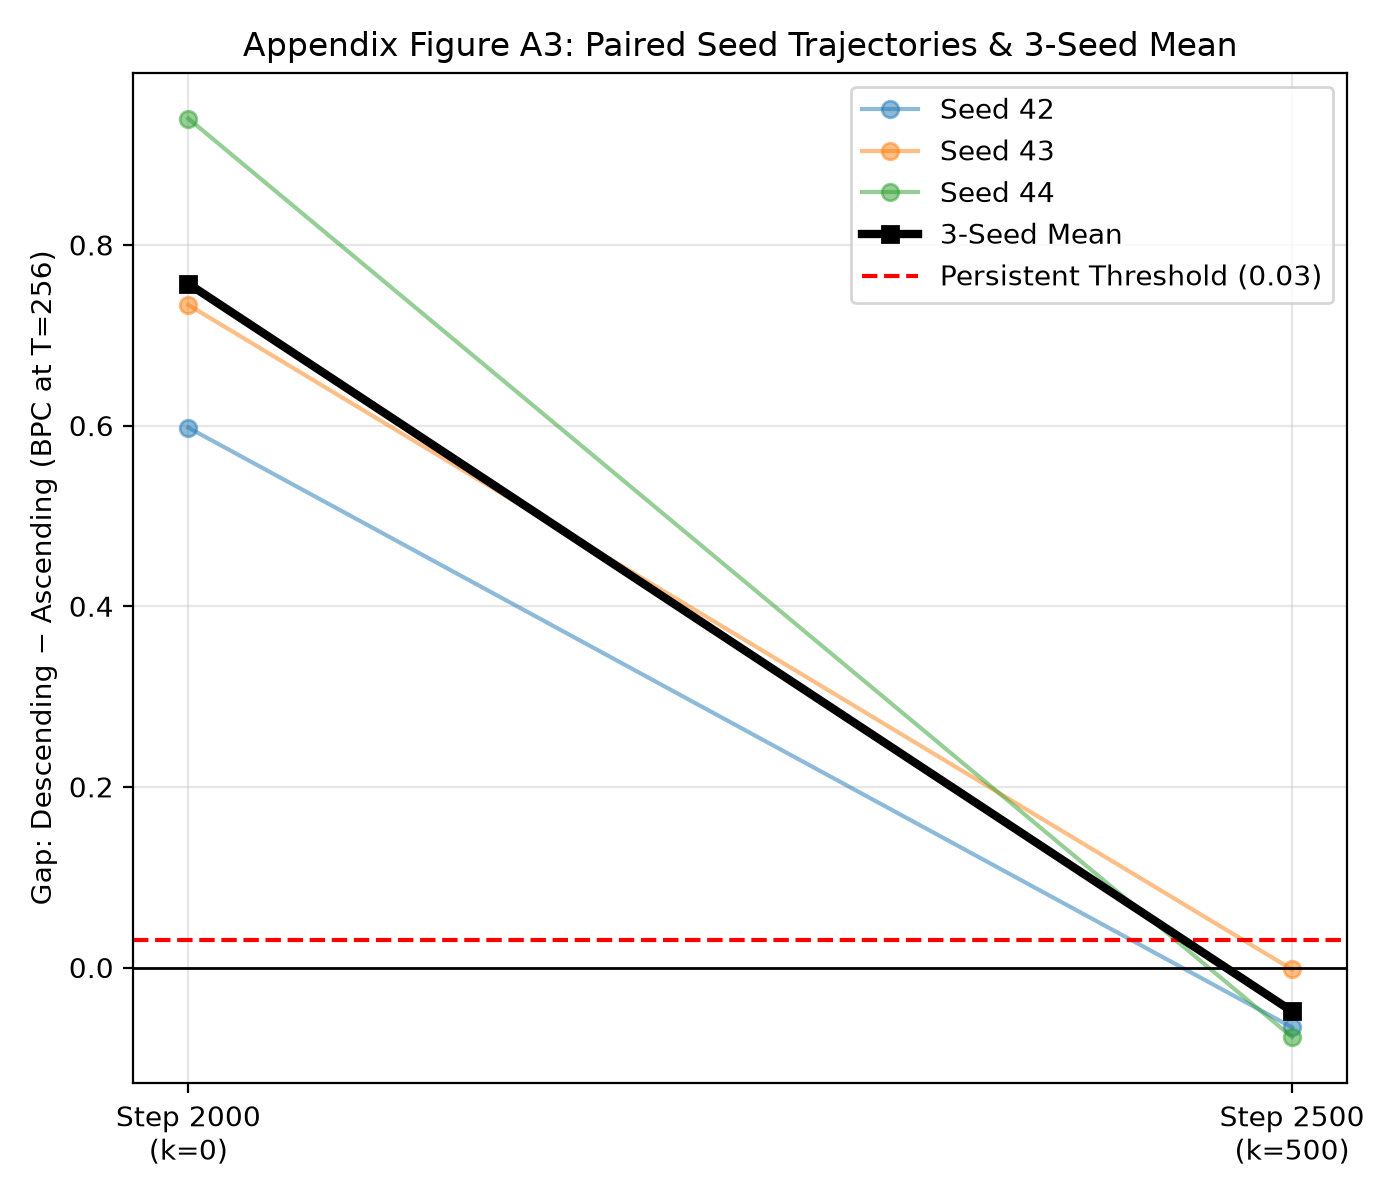
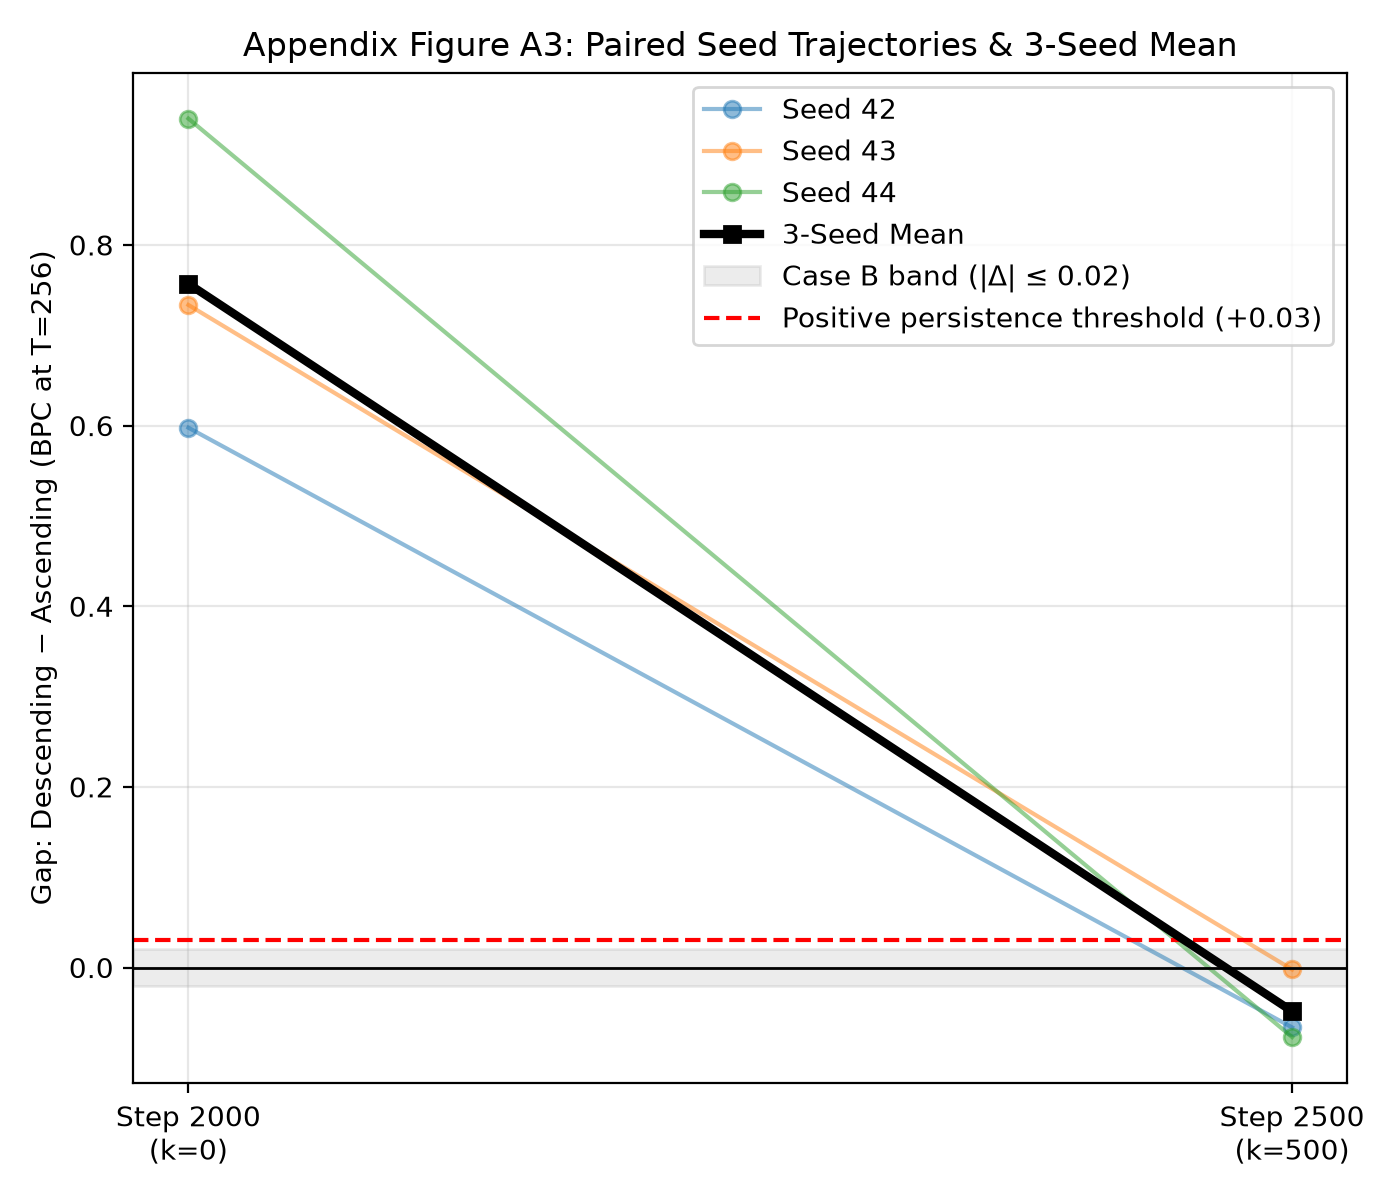
docs(recovery_study): publish corrected results and report

Changed region(s): [[0.4914, 0.0617, 0.9521, 0.2775]]

diff --git a/training_dynamics_research/recovery_study/TECHNICAL_REPORT.md b/training_dynamics_research/recovery_study/TECHNICAL_REPORT.md
@@ -1,0 +1,169 @@
+# Context-Length Order Recovery Study
+
+## Technical report
+
+> **Status:** Complete 3-arm × 3-seed controlled study; preregistered endpoint is unresolved  
+> **Experiment date:** September 27, 2026  
+> **Model:** 4.8M-parameter character-level Transformer on Tiny Shakespeare  
+> **Primary metric:** Paired descending-minus-ascending validation BPC at evaluation horizon `T=256`
+
+## Abstract
+
+We tested whether the large long-context deficit previously observed after descending context-length training reflects persistent path dependence or a reversible terminal-context effect. Three schedules—ascending (`32→64→128→256`), descending (`256→128→64→32`), and one prespecified nonmonotonic permutation (`64→256→32→128`)—received matched context exposure for 2,000 steps, followed by 500 identical `T=256` recovery steps. Data draws, initialization within seed, model, optimizer, token throughput, evaluation targets, recovery learning rate, and training budget were controlled.
+
+Before recovery, the paired descending-minus-ascending anchor gap at `T=256` was `+0.7570 BPC` (95% t interval `[+0.3290, +1.1851]`; 3/3 seeds positive). After recovery, it was `−0.0485 BPC` (95% t interval `[−0.1491, +0.0521]`; 0/3 positive). The registered recovery ratio was `R=−0.064`, but the absolute residual `0.0485 BPC` exceeded the preregistered Case B threshold of `0.02 BPC`. The correct registered outcome is therefore: **large deficit reversed; residual sign reversal unresolved**. The original positive deficit did not persist, but three seeds cannot establish whether the small reversed residual is real or explain its mechanism.
+
+## 1. Research question
+
+After matching context exposure, transition structure, training budget, validation targets, and a final long-context recovery stage, does the temporal order of context-length blocks leave a persistent effect on language-model performance?
+
+The primary contrast was
+
+\[
+\Delta^A(k)=\operatorname{BPC}^{A}_{descending,256}(2000+k)
+-\operatorname{BPC}^{A}_{ascending,256}(2000+k),
+\]
+
+measured on the 32-sequence anchor panel at recovery steps `k=0` and `k=500`.
+
+## 2. Hypotheses and decision rules
+
+The quantitative hypothesis was that common `T=256` recovery would remove at least 75% of the pre-recovery gap:
+
+\[
+R=\frac{\Delta^A(500)}{\Delta^A(0)}<0.25.
+\]
+
+The ratio was descriptive and could not override the absolute residual rules:
+
+- Case A: `|mean Δᴬ(0)| < 0.02 BPC` — the original gap did not replicate.
+- Case B: `|mean Δᴬ(500)| ≤ 0.02 BPC` — practically removed.
+- Case C: a small, directionally inconsistent, or boundary residual — unresolved.
+- Case D: a positive residual above `0.03 BPC` that was still recovering — extend once.
+- Case E: a positive residual above `0.03 BPC`, 3/3 positive, and plateaued — persistent-effect candidate.
+
+The observed large negative residual was not a preregistered Case B outcome. It is reported as a Case C boundary/sign-reversal result rather than redefining Case B after observing the data.
+
+## 3. Controlled experimental design
+
+| Component | Frozen design |
+|---|---|
+| Arms | ascending, descending, one exploratory nonmonotonic permutation |
+| Seeds | 42, 43, 44 |
+| Scheduled phase | four 500-step context blocks, steps 1–2000 |
+| Recovery phase | common `T=256`, steps 2001–2500 |
+| Token throughput | `B×T=4096` tokens per update |
+| Optimizer | AdamW with preserved state |
+| Recovery learning rate | common schedule ending at `min_lr=1e-4` |
+| Process panel | 16 fixed sequences, four horizons, 17 checkpoints |
+| Anchor panel | 32 fixed sequences, four horizons, steps 2000 and 2500 |
+| Pairing | identical initialization and matched data manifests within seed |
+| Execution-order control | Latin-square arm rotation across seeds |
+
+The nonmonotonic arm is exploratory. One permutation cannot support claims about nonmonotonic schedules as a class and does not alter the primary descending-versus-ascending decision.
+
+## 4. Validity and completeness checks
+
+The formal analysis gate verified:
+
+- all 9 runs were present, completed, and not smoke tests;
+- all runs reached step 2500;
+- every run contained all 17 process checkpoints and all four evaluation horizons;
+- every run contained anchor evaluations at steps 2000 and 2500;
+- the process panel contained 16 sequence-level BPC values and the anchor panel contained 32;
+- the first 16 anchor sequences reconstructed the corresponding process statistic;
+- all evaluated values were finite.
+
+The aggregate recorded training time was 8,818.7 seconds (approximately 2.45 hours summed across the nine sequential run records). No training rerun or adaptive extension was triggered by the corrected analysis.
+
+## 5. Primary result
+
+| Endpoint | Seed-level paired differences | Mean ± SD BPC | 95% t interval | Direction |
+|---|---|---:|---:|---:|
+| `Δᴬ(0)`, step 2000 | `+0.5977, +0.7336, +0.9399` | `+0.7570 ± 0.1723` | `[+0.3290, +1.1851]` | 3/3 positive |
+| `Δᴬ(500)`, step 2500 | `−0.0663, −0.0022, −0.0770` | `−0.0485 ± 0.0405` | `[−0.1491, +0.0521]` | 0/3 positive |
+| Pre-to-post reduction | `+0.6640, +0.7357, +1.0169` | `+0.8055 ± 0.1865` | `[+0.3422, +1.2689]` | 3/3 positive |
+
+`R=−0.064`, corresponding descriptively to 106.4% recovery because the gap crossed zero. This ratio supports strong recovery but does not establish equivalence. Since `|−0.0485|=0.0485>0.02`, the registered Case B practical-removal criterion was not met.
+
+## 6. Multi-horizon and process evidence
+
+### 6.1 Anchor endpoints
+
+Mean descending-minus-ascending anchor differences were:
+
+| Evaluation horizon | Step 2000 | Step 2500 |
+|---:|---:|---:|
+| `T=32` | `−0.0667` | `−0.0622` |
+| `T=64` | `−0.0424` | `−0.0569` |
+| `T=128` | `−0.0258` | `−0.0606` |
+| `T=256` | `+0.7570` | `−0.0485` |
+
+The large pre-recovery deficit was specific to evaluation at `T=256`; it was not a broad degradation shared by shorter evaluation horizons. After common recovery, all four mean contrasts were modest and negative, although their three-seed intervals were wide and crossed zero.
+
+### 6.2 Recovery dynamics
+
+On the 16-sequence process panel, the mean `T=256` gap fell from `+0.8097 BPC` at `k=0` to `+0.0719` at `k=10`, crossed zero by `k=50`, and ended at `−0.0195` at `k=500`. The context-alignment contrast
+
+\[
+A^P(k)=\Delta_{256}^P(k)-\Delta_{32}^P(k)
+\]
+
+also collapsed rapidly, showing that the initial arm difference became much less dependent on evaluation horizon during common long-context recovery.
+
+These trajectories support a terminal-context-sensitive interpretation of the large positive deficit. They do not determine whether the smaller negative residual reflects noise, optimization history, or another source of path dependence.
+
+## 7. Contradiction and corrected interpretation
+
+The initial expectation was that recovery would either leave a positive persistent residual or reduce the gap into the registered `±0.02 BPC` practical-removal region. Instead, the estimate crossed zero and ended outside that region.
+
+An initial post-result analysis revision incorrectly added a signed-negative exception to Case B and described the outcome as “entirely reversible recency bias.” That exception was removed because it was not preregistered and would classify arbitrarily large negative residuals as practical removal.
+
+The corrected interpretation is:
+
+1. the large positive descending deficit replicated before recovery;
+2. it did not persist under matched `T=256` recovery;
+3. recovery produced a small direction-consistent sign reversal in the point estimates;
+4. the reversed residual is larger than the registered equivalence threshold but uncertain with three seeds;
+5. therefore the primary endpoint is unresolved, while a large persistent descending deficit is not supported.
+
+## 8. Limitations and remaining unknowns
+
+- Three seeds provide weak precision for effects near `0.05 BPC`; the post-recovery 95% interval spans both moderate negative and small positive effects.
+- The study distinguishes recovery behavior, not a unique mechanism. It does not isolate optimizer moments, representation changes, or data memorization.
+- Recovery adds both long-context exposure and 500 optimization steps. The design operationalizes recency through matched recovery but does not identify every causal component of recovery.
+- The `0.02` and `0.03 BPC` thresholds are project-specific practical thresholds, not universal constants.
+- The nonmonotonic evidence comes from one prespecified permutation and remains exploratory.
+- The result is restricted to this model scale, character tokenizer, corpus, optimizer, schedule, and token budget.
+
+The central remaining question is whether the approximately `−0.05 BPC` post-recovery contrast replicates with greater precision. The present study does not justify a targeted optimizer-state mechanism experiment because the preregistered positive-persistence condition was not met.
+
+## 9. Conclusion
+
+The experiment rejects the simple claim that descending context order leaves a large positive performance deficit after matched long-context recovery. The original `T=256` deficit was large, horizon-specific, and rapidly reversible. However, recovery did not place the paired mean inside the preregistered practical-removal band; it produced a small sign reversal whose confidence interval crosses zero. The defensible conclusion is therefore **large deficit reversed; residual sign reversal unresolved**, not equivalence, confirmation of a unique recency mechanism, or evidence of persistent positive path dependence.
+
+## 10. Provenance and reproduction
+
+| Stage | Commit |
+|---|---|
+| Frozen preregistration | `f1bf7b7` |
+| Formal training code and run artifacts | `30a126cb7fbee5b5d730aeccc6efa33a18cdf4f8` |
+| Corrected analysis code | `82a4f0d5b24d27a6fd66bf3fe1878d6839af0ebd` |
+| Figure-generation code | `82a4f0d5b24d27a6fd66bf3fe1878d6839af0ebd` |
+
+The corrected analysis and figures were generated without rerunning the models:
+
+```bash
+python3 -m unittest training_dynamics_research.recovery_study.test_study
+python3 -m training_dynamics_research.recovery_study.analyze
+```
+
+Primary artifacts:
+
+- `results/recovery_study/run_config.json`
+- `results/recovery_study/summary.json`
+- `results/recovery_study/figures/data/recovery_contrasts.csv`
+- `results/recovery_study/figures/main_02_recovery_gap_by_horizon.png`
+- `results/recovery_study/figures/appendix_A3_paired_seed_endpoints.png`
+- `results/recovery_study/figures/appendix_A4_context_alignment.png`
+- `results/recovery_study/figures/appendix_A5_nonmonotonic_exploratory.png`

diff --git a/training_dynamics_research/recovery_study/README.md b/training_dynamics_research/recovery_study/README.md
@@ -10,6 +10,8 @@ Execution implementation for the preregistered study:
 ```text
 training_dynamics_research/recovery_study/
 ├── PREREGISTRATION.md   # Frozen experimental specification & decision rules
+├── PREREGISTRATION_AMENDMENT_001_FIGURES.md
+├── TECHNICAL_REPORT.md  # Corrected results, interpretation, and provenance
 ├── config.py            # Global hyperparameters, seeds, and decision thresholds
 ├── schedules.py         # Ascending, descending, and nonmonotonic schedule builders
 ├── manifests.py         # RNG-decoupled scheduled, recovery, & extended batch manifests
@@ -29,9 +31,10 @@ results/recovery_study/
 ├── seed_42/{ascending,descending,nonmonotonic}/
 ├── seed_43/{ascending,descending,nonmonotonic}/
 ├── seed_44/{ascending,descending,nonmonotonic}/
-├── plots/
-│   ├── recovery_horizon_trajectories.png
-│   └── paired_seed_recovery.png
+├── figures/
+│   ├── data/            # Five canonical tidy CSV tables
+│   ├── main_01_*.png ... main_05_*.png
+│   └── appendix_A1_*.png ... appendix_A5_*.png
 └── summary.json
 ```
 
@@ -76,4 +79,4 @@ This loads each arm's `checkpoint_step_2500.pt`, preserves Adam moments and RNG 
 ```bash
 python3 -m training_dynamics_research.recovery_study.analyze
 ```
-Outputs statistical summaries, 4-horizon trajectories, transition shocks, AUCs, and saves figures to `results/recovery_study/plots/`.
+Outputs the corrected preregistered summary, five tidy tables, and the complete figure set under `results/recovery_study/figures/`. The interpretation and exact training/analysis/figure provenance are recorded in `TECHNICAL_REPORT.md`.
